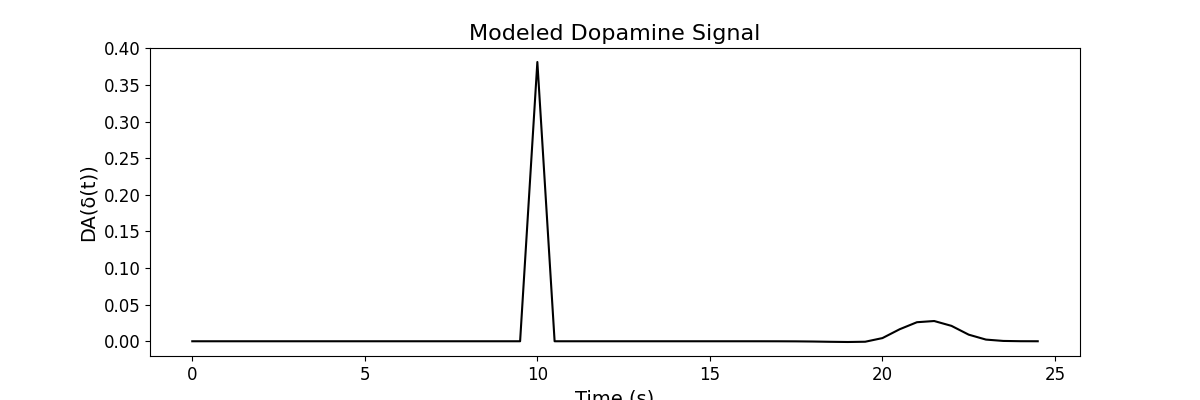
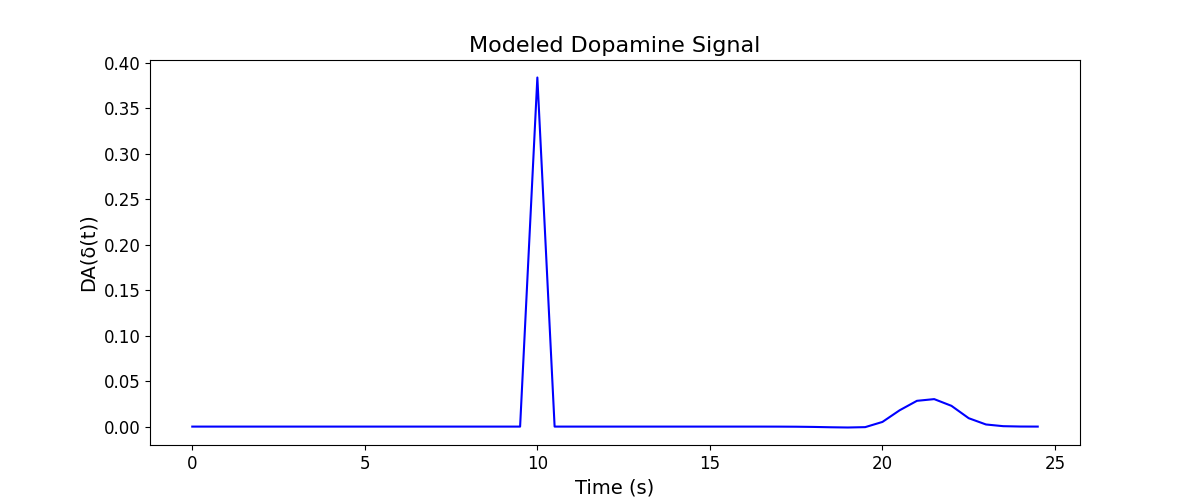
Good data to exercise 5

diff --git a/td_learning_v4.py b/td_learning_v4.py
@@ -194,25 +194,25 @@ def plot_partial_reinforcement_results(time_points, analysis_results, p):
     fig, axes = plt.subplots(3, 1, figsize=(12, 12), sharex=True)
     
     # Plot value estimates
-    axes[0].plot(time_points, analysis_results['values'][0], color=plt.cm.winter(1.0), label='All trials')
+    axes[0].plot(time_points, analysis_results['values'][2], color=plt.cm.winter(1.0), label='Unrewarded')
     axes[0].plot(time_points, analysis_results['values'][1], color=plt.cm.winter(0.5), label='Rewarded')
-    axes[0].plot(time_points, analysis_results['values'][2], color=plt.cm.winter(0.0), label='Unrewarded')
+    axes[0].plot(time_points, analysis_results['values'][0], color=plt.cm.winter(0.0), label='All trials')
     axes[0].set_ylabel('Value Estimate')
     axes[0].set_title(f'Value Estimate')
     axes[0].legend()
     
     # Plot value differences
-    axes[1].plot(time_points, analysis_results['value_differences'][0], color=plt.cm.winter(1.0), label='All trials')
+    axes[1].plot(time_points, analysis_results['value_differences'][2], color=plt.cm.winter(1.0), label='Unrewarded')
     axes[1].plot(time_points, analysis_results['value_differences'][1], color=plt.cm.winter(0.5), label='Rewarded')
-    axes[1].plot(time_points, analysis_results['value_differences'][2], color=plt.cm.winter(0.0), label='Unrewarded')
+    axes[1].plot(time_points, analysis_results['value_differences'][0], color=plt.cm.winter(0.0), label='All trials')
     axes[1].set_ylabel('Value Differences')
     axes[1].set_title('Value Differences')
     axes[1].legend()
     
     # Plot TD errors
-    axes[2].plot(time_points, analysis_results['td_errors'][0], color=plt.cm.winter(1.0), label='All trials')
+    axes[2].plot(time_points, analysis_results['td_errors'][2], color=plt.cm.winter(1.0), label='Unrewarded')
     axes[2].plot(time_points, analysis_results['td_errors'][1], color=plt.cm.winter(0.5), label='Rewarded')
-    axes[2].plot(time_points, analysis_results['td_errors'][2], color=plt.cm.winter(0.0), label='Unrewarded')
+    axes[2].plot(time_points, analysis_results['td_errors'][0], color=plt.cm.winter(0.0), label='All trials')
     axes[2].set_ylabel('TD Error')
     axes[2].set_title('TD Error')
     axes[2].legend()
@@ -231,7 +231,7 @@ def plot_partial_reinforcement_results(time_points, analysis_results, p):
 
 def plot_dopamine_trajectory(time_points, analysis_results, p):
     plt.figure(figsize=(12, 5))
-    plt.plot(time_points, analysis_results['dopamine'], color='black')
+    plt.plot(time_points, analysis_results['dopamine'], color=plt.cm.winter(0.0))
     plt.xlabel('Time (s)')
     plt.ylabel('DA(δ(t))')
     plt.title('Modeled Dopamine Signal')
